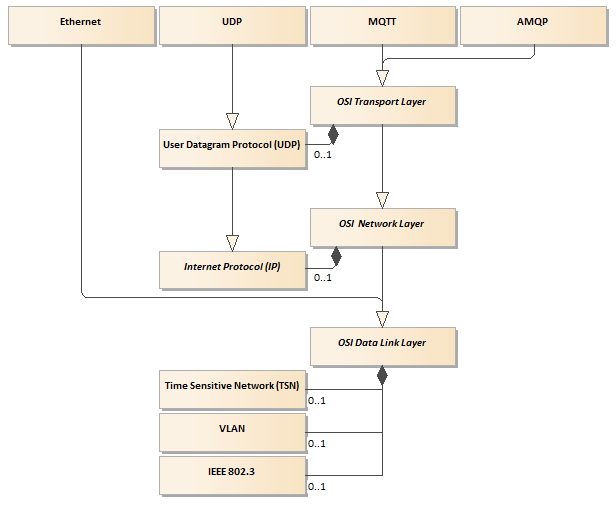
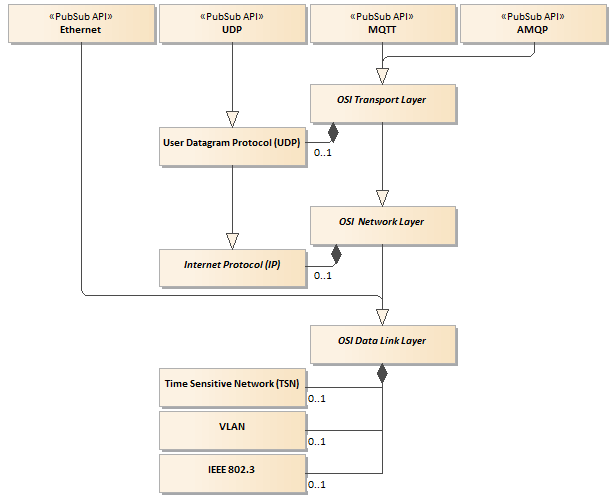
Review PubSub Main Technology Features #366
- unimportant changes - fixed
a. typos
b. added a reference
c. added stereotype on the StackDomainModel.png for top layer classes to avoid confusion that they represents protocols.

Changed region(s): [[0.0309, 0.0, 1.0, 0.9861]]

diff --git a/Networking/SemanticData/README_EthernetMapping.md b/Networking/SemanticData/README_EthernetMapping.md
@@ -65,7 +65,7 @@ Examples of EtherTypes are 0x0800 and 0x8DD, which are used to identify IPv4 and
 
 A detailed description of the EPD is covered by the specification [IEEE 802][802]. More information on EtherTypes can also be found on the [IEEE RA web site][IEEERA].
 
-> **Note**: EtherType **0xB62C** is recommended by the [OPC UA PubSub][OPC.UA.PubSub] to identify Ethernet mapping for PubSub protocol. Unfortunately, at the date of this document publication, this EtherType number is not listed as an entry in the official registry available here [IEEE 802 Numbers][802Numbers]. This number is classified by the IEEE as the OUI Extended EtherType.
+> **Note 1**: EtherType **0xB62C** is recommended by the [OPC UA PubSub][OPC.UA.PubSub] to identify Ethernet mapping for PubSub protocol. Unfortunately, at the date of this document publication, this EtherType number is not listed as an entry in the official registry available here [IEEE 802 Numbers][802Numbers]. This number is classified by the IEEE as the OUI Extended EtherType.
 
 [IEEE 802][802] defines three assigned EtherType groups of vendor-specific protocol identifier:
 
@@ -77,11 +77,11 @@ OUI Extended EtherType|88-B7
 
 The vendor-specific protocol identifier is a means whereby protocol developers may assign permanent protocol identifier values without consuming type values from the globally available limited resource. This can be useful for **prototype, experimental, and private/proprietary protocols** to be developed without impacting the global EtherType namespace. The OUI Extended `EtherType` allows an organization to apply protocol identifiers using SNAP. An organization allocates protocol identifiers to its own protocols in a manner that ensures that the protocol identifier is globally unique. SNAP provides a method for multiplexing and demultiplexing of private and public protocols among multiple users of the LLC sublayer. An organization that has an OUI assigned to it may use its OUI to assign universally unique protocol identifiers to its own protocols, for use in the protocol identification field of SNAP data units.
 
-> **NOTE**: to use EPD the PubSub cannot directly access Ethernet PDU as it is required in the specification because this service is provided by the LLC sublayer.
+> **NOTE 2**: to use EPD the PubSub cannot directly access Ethernet PDU as it is required in the specification because this service is provided by the LLC sublayer.
 
 #### Virtual Bridged Network
 
-Additionally, the [IEEE 802.1Q][8021Q] introduces a concept of Virtual Bridged Network. VLANs and their identifiers (VID) provide a convenient and consistent network-wide reference for VLAN Bridges. A VLAN represents a broadcast domain. VLANs are identified by a VLAN ID (a number between 0 – 4095). Portions of the network which are VLAN-aware (i.e., IEEE 802.1Q conformant) can include VLAN tags. When a frame enters the VLAN-aware portion of the network, a tag is added to represent the VLAN membership. Each frame must be distinguishable as being within exactly one VLAN. 802.1Q adds a 32-bit field between the source MAC address and the EtherType fields of the original frame.
+Additionally, the [IEEE 802.1Q][8021Q] introduces a concept of Virtual Bridged Network. VLANs and their identifiers (VID) provide a convenient and consistent network-wide reference for VLAN Bridges. A VLAN represents a broadcast domain. VLANs are identified by a VLAN ID (a number between 0 – 4095). Portions of the network which are VLAN-aware (i.e., IEEE 802.1Q conformant) can include VLAN tags. When a frame enters the VLAN-aware portion of the network, a tag is added to represent the VLAN membership. 802.1Q adds a 32-bit field between the source MAC address and the EtherType fields of the original frame.
 
 Each tag comprises the following sequential information elements:
 
@@ -106,7 +106,7 @@ The Time Sensitive Network (TSN) concept is not mentioned within the PubSub spec
 
 The expectation is that the TSN provides guaranteed data transport with bounded low latency, low delay variation, and extremely low data loss.
 
-The Time-Sensitive Networking (TSN) Task Group (TG) is a part of the IEEE 802.1 Working Group (WG). The mission of the TSN TG is to provide deterministic services through IEEE 802 networks, i.e.,
+The [Time-Sensitive Networking (TSN) Task Group (TG)](https://1.ieee802.org/tsn/) is a part of the IEEE 802.1 Working Group (WG). The mission of the TSN TG is to provide deterministic services through IEEE 802 networks, i.e.,
 
 - guaranteed packet transport with bounded latency
 - low packet delay variation, and low packet loss
@@ -121,7 +121,7 @@ Base standards for TSN:
 - IEEE Std 802.1CB-2017: Frame Replication and Elimination for Reliability
 - IEEE Std 802.1CM-2018: Time-Sensitive Networking for Fronthaul
 
-> **Note 1**: In computer science, the real-time application describes hardware and software systems subject to a real-time constraint. Real-time programs must guarantee the expected time relationships between the selected events and outcomes of the data processing process. In other words, deploying the real-time application, time must be considered as an important factor affecting the application correctness. Conversely, increasing processing or communication speed is not always required for the real-time application correctness. A very good example is Voice over IP where very hard time constraints required to correctly replay the sound can be meat using nondeterministic communication over the Internet. Another example where we have time constraints but the overall speed of processing engine is usually irrelevant is any thermal process.
+> **Note 3**: In computer science, the real-time application describes hardware and software systems subject to a real-time constraint. Real-time programs must guarantee the expected time relationships between the selected events and outcomes of the data processing process. In other words, deploying the real-time application, time must be considered as an important factor affecting the application correctness. Conversely, increasing processing or communication speed is not always required for the real-time application correctness. A very good example is Voice over IP where very hard time constraints required to correctly replay the sound can be met using nondeterministic communication over the Internet. Another example where we have time constraints but the overall speed of processing engine is usually irrelevant is any thermal process.
 
 #### Medium Access Control
 
@@ -174,16 +174,18 @@ where:
 
 The format of a MAC address is six groups of hexadecimal digits, separated by hyphens (e.g. 01-23-45-67-89-ab). An application may also accept host names and/or IP addresses if it provides means to resolve it to a MAC address (e.g. DNS and Reverse-ARP).
 
-> NOTE: the above mentioned addressing parameters are not mapped to any of the PubSub `NetworkMessage` parameters. In other word there is no semantic relationship with the OPC UA and, therefore, the parameters must be provided separately by the application configuration.
+> **NOTE 4**: the above mentioned addressing parameters are not mapped to any of the PubSub `NetworkMessage` parameters. In other word there is no semantic relationship with the OPC UA and, therefore, the parameters must be provided separately by the application configuration.
 
 According to this mapping, the `UADP NetworkMessage` structures are transparently transported as the payload of the Ethernet frame. For OPC UA Ethernet the MaxNetworkMessageSize plus additional headers shall be limited to an Ethernet frame size of 1522 Bytes.
+
+> **NOTE #5**: some definitions of parameters duplicate definition in independent normative standards. To avoid conflicts these definitions must be recognized as redundant and removed from the Part 14 document.
 
 ## Conclusion
 
 - OPC UA and Ethernet are unrelated, i.e. there is no semantic relationship between both
 - OPC UA Pub/Sub is recognized as an Internet technology, but the Ethernet mapping only makes sense for a VLAN constrained broadcast domain (local network segment)
 - OPC UA PubSub over the TSN is a misleading term because each protocol can be transported over this particular Ethernet dialect
-- Time Sensitive Network doesn’t mean real time – it means no jitter (it improves deterministic communication)
+- Time Sensitive Network doesn’t mean real-time – simplifying it means no jitter (it improves deterministic communication)
 - The proposed mappings are not compliant with the [IEEE 802][802] specification because the mentioned services are defined in the layer that is located above the Ethernet and applies to Bridged Networks in general
 
 ## See also

diff --git a/Networking/SemanticData/README.PubSubMTF.md b/Networking/SemanticData/README.PubSubMTF.md
@@ -7,7 +7,7 @@ In general speaking the following two distinct patterns are used to transfer dat
 - connection-oriented: requires a session that has to be established before any data can be sent between sender and receiver
 - connectionless-oriented: the sender may start sending messages (called packets or datagrams) to the destination without any preceding handshake procedure
 
-Each has its own advantages and disadvantages. In general, the OPC UA is a session centric communication. The session is established by the **OPC UA Clint** that must connect to the **OPC UA Server** before any data can be exchanged between them. In this Client/Server scenario defined by the [Services in Part 4][Opc.UA.Part4], the data flow is bidirectional over the session. The session entities communicate over a secure channel that is created in the underlying communication layer and relies upon it for secure communication. It enables to log-in using user authentication and operations authorization. More details you can find in the article:
+Each has its own advantages and disadvantages. In general, the OPC UA is a session centric communication. The session is established by the **OPC UA Client** that must connect to the **OPC UA Server** before any data can be exchanged between them. In this Client/Server scenario defined by the [Services in Part 4][Opc.UA.Part4], the data flow is bidirectional over the session. The session entities communicate over a secure channel that is created in the underlying communication layer and relies upon it for secure communication. It enables to log-in using user authentication and operations authorization. More details you can find in the article:
 
 - [OPC Unified Architecture – Main Technological Features][OPCUAMTF]
 
@@ -107,7 +107,7 @@ I guess that the removal of the UDP and IP protocols from the communication stac
 >
 > **NOTE 4**: Ethernet mapping is applicable only in case the communication parties are connected to the same local network segment (they are in the same broadcast domain limited by a VLAN if any).
   
-Further communication performance improvement and extension of the functionality may be obtained for example by applying implementation of the:
+Further communication performance improvement and extension of the functionality may be obtained for example by applying implementation of the [802.1Q-2018][8021Q]:
 
 - Time-Sensitive Network (TSN)
 - Virtual Local Network (VLAN)
@@ -142,7 +142,7 @@ The section [Walk-through `ReferenceApplication`][ReferenceApplication] covers t
 
 ## Acknowledgment
 
-I would like to thank [Gary Workman](https://www.linkedin.com/in/gary-workman-486663161/), [Michał Morawski](https://orcid.org/0000-0002-8902-1259), [Michel Condemine](https://www.linkedin.com/in/opcfrance/), and [Jayachandran Rameshbabu](https://www.linkedin.com/in/jayachandran-rameshbabu-483848a9/) for their feedback, cooperation and of course friendship.
+I would like to thank [Gary Workman](https://www.linkedin.com/in/gary-workman-486663161/), [Michał Morawski](https://orcid.org/0000-0002-8902-1259), [Michel Condemine](https://www.linkedin.com/in/opcfrance/), [Jayachandran Rameshbabu](https://www.linkedin.com/in/jayachandran-rameshbabu-483848a9/), and [Stéphane Potier](https://www.linkedin.com/in/potier/) for their feedback, cooperation and of course friendship.
 
 ## Glossary
 
@@ -235,3 +235,7 @@ I would like to thank [Gary Workman](https://www.linkedin.com/in/gary-workman-48
 - [IEEE 802.3 ETHERNET WORKING GROUP][IEEE]
 
 [IEEE]:http://www.ieee802.org/3/
+
+- [802.1Q-2018 - IEEE Standard for Local and Metropolitan Area Network--Bridges and Bridged Networks][8021Q]
+
+[8021Q]:https://ieeexplore.ieee.org/servlet/opac?punumber=8686437
